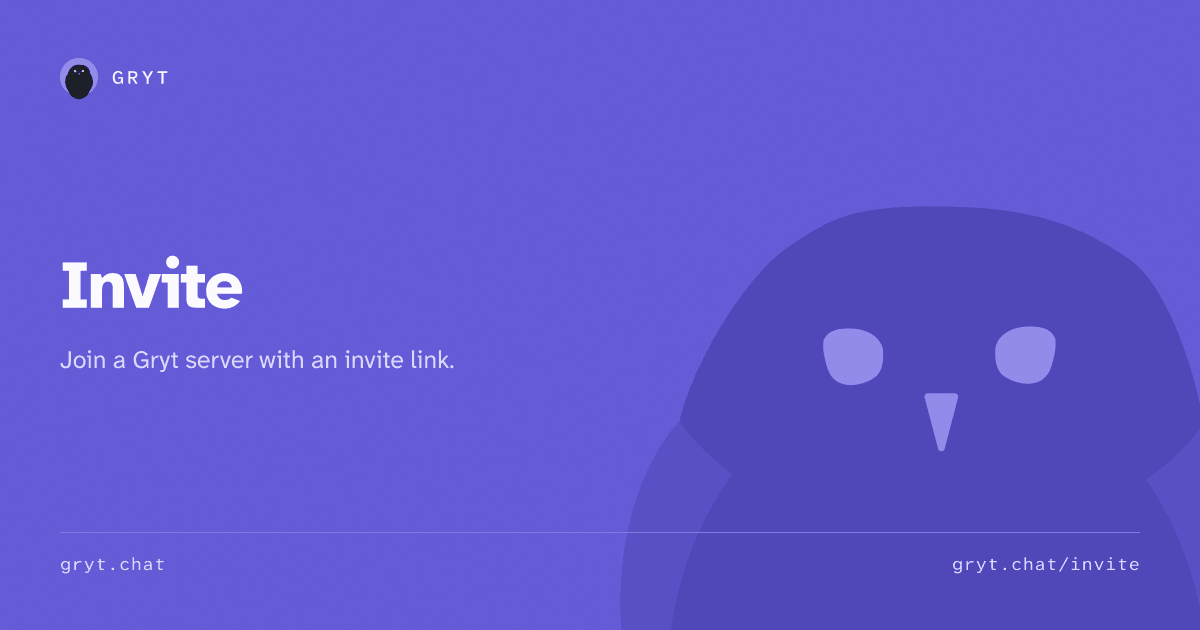
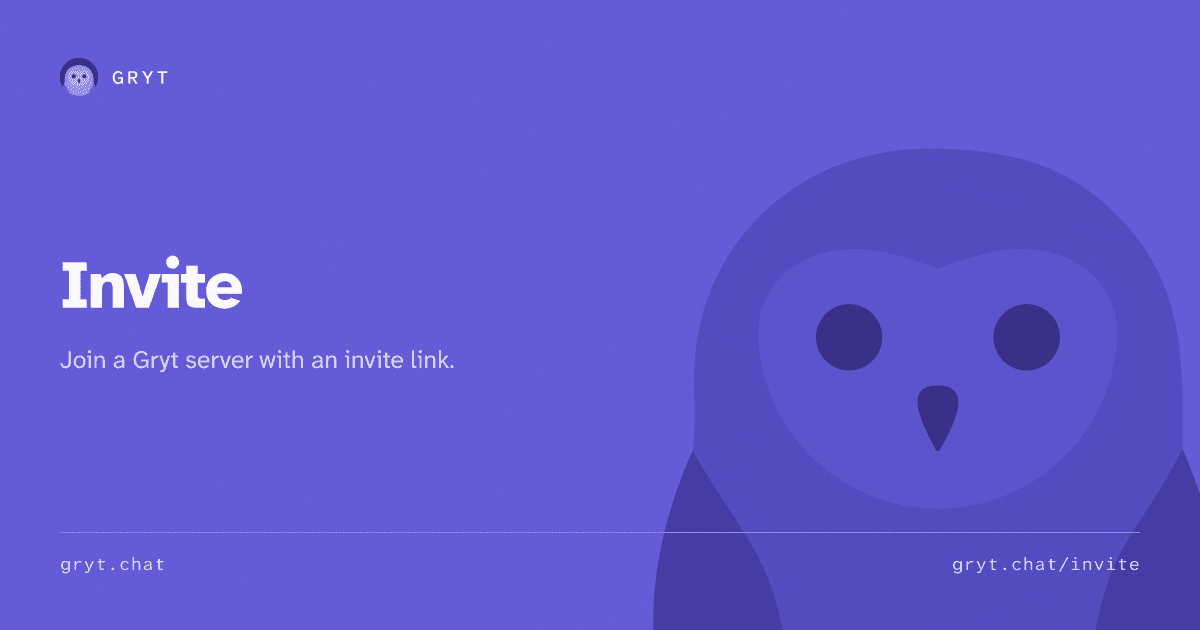
Put the new mark on the share cards and on the page (GRYT-603)
GRYT-600 swapped the files in public/ and missed two places that draw from them.

generate-og-image.mjs carried the owl inline — the glyph once and the whole mark again — so every share card for all 32 pages kept the old drawing. Both are read out of public/ now, and the recolouring throws when the mark's palette moves rather than quietly drawing something else.

GrytLogo pointed at the square artboard, which beside a wordmark at 28-44px reads as a broken image. It takes logo-round.svg, the same file the favicon already used.

Two things that needed a second pass: both SVGs carry the same clipPath id, so the round mark first rendered under the square one's clip; and the new drawing fills more of its box than the old, so the glyph's placement was retuned off the beak rather than the artboard.

diff --git a/src/components/GrytLogo.tsx b/src/components/GrytLogo.tsx
@@ -3,10 +3,20 @@ interface GrytLogoProps {
   className?: string;
 }
 
+/*
+ * The round mark, at every size the site draws it: 44px on the invite and
+ * hand-off pages, 32 and 28 in the navbar, 30 in the footer.
+ *
+ * /logo.svg is the square artboard, and it is the right one for the app icon
+ * and for a README — a launcher applies its own mask and a README wants the
+ * full frame. On a page it is a small dark square sitting beside a wordmark,
+ * which reads as a broken image rather than as a logo. The OG cards still take
+ * the square one; they crop it themselves.
+ */
 export function GrytLogo({ size = 72, className }: GrytLogoProps) {
   return (
     <img
-      src="/logo.svg"
+      src="/logo-round.svg"
       alt="Gryt logo"
       width={size}
       height={size}

diff --git a/index.html b/index.html
@@ -29,7 +29,7 @@
          READMEs and the OG image pull; a favicon wants the round one. -->
     <link rel="icon" type="image/svg+xml" href="/logo-round.svg" />
 
-    <link rel="preload" as="image" href="/logo.svg" />
+    <link rel="preload" as="image" href="/logo-round.svg" />
     <link
       data-home-preload
       rel="preload"
